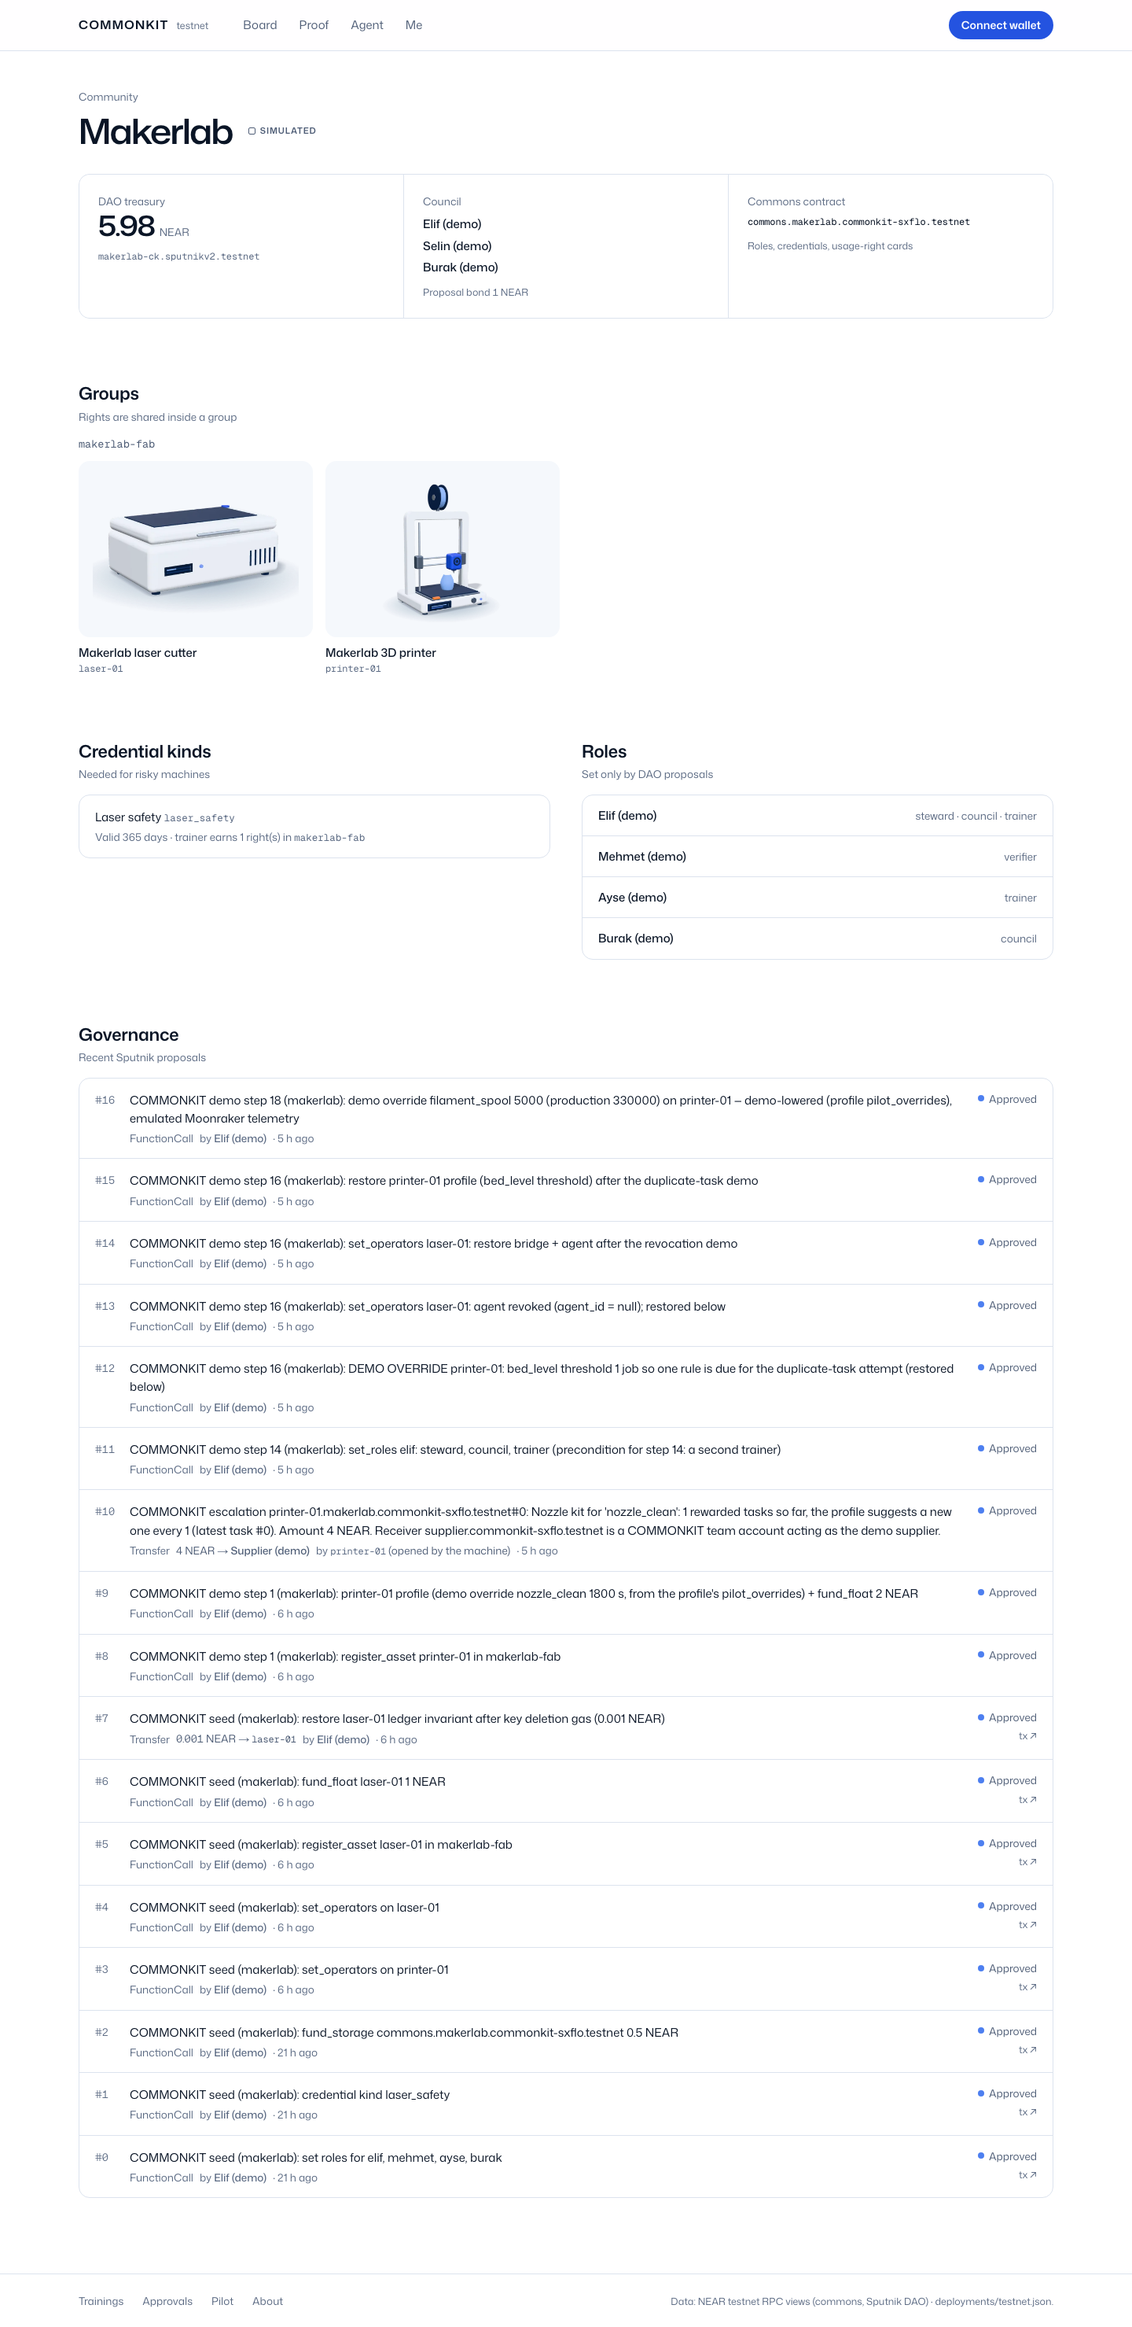
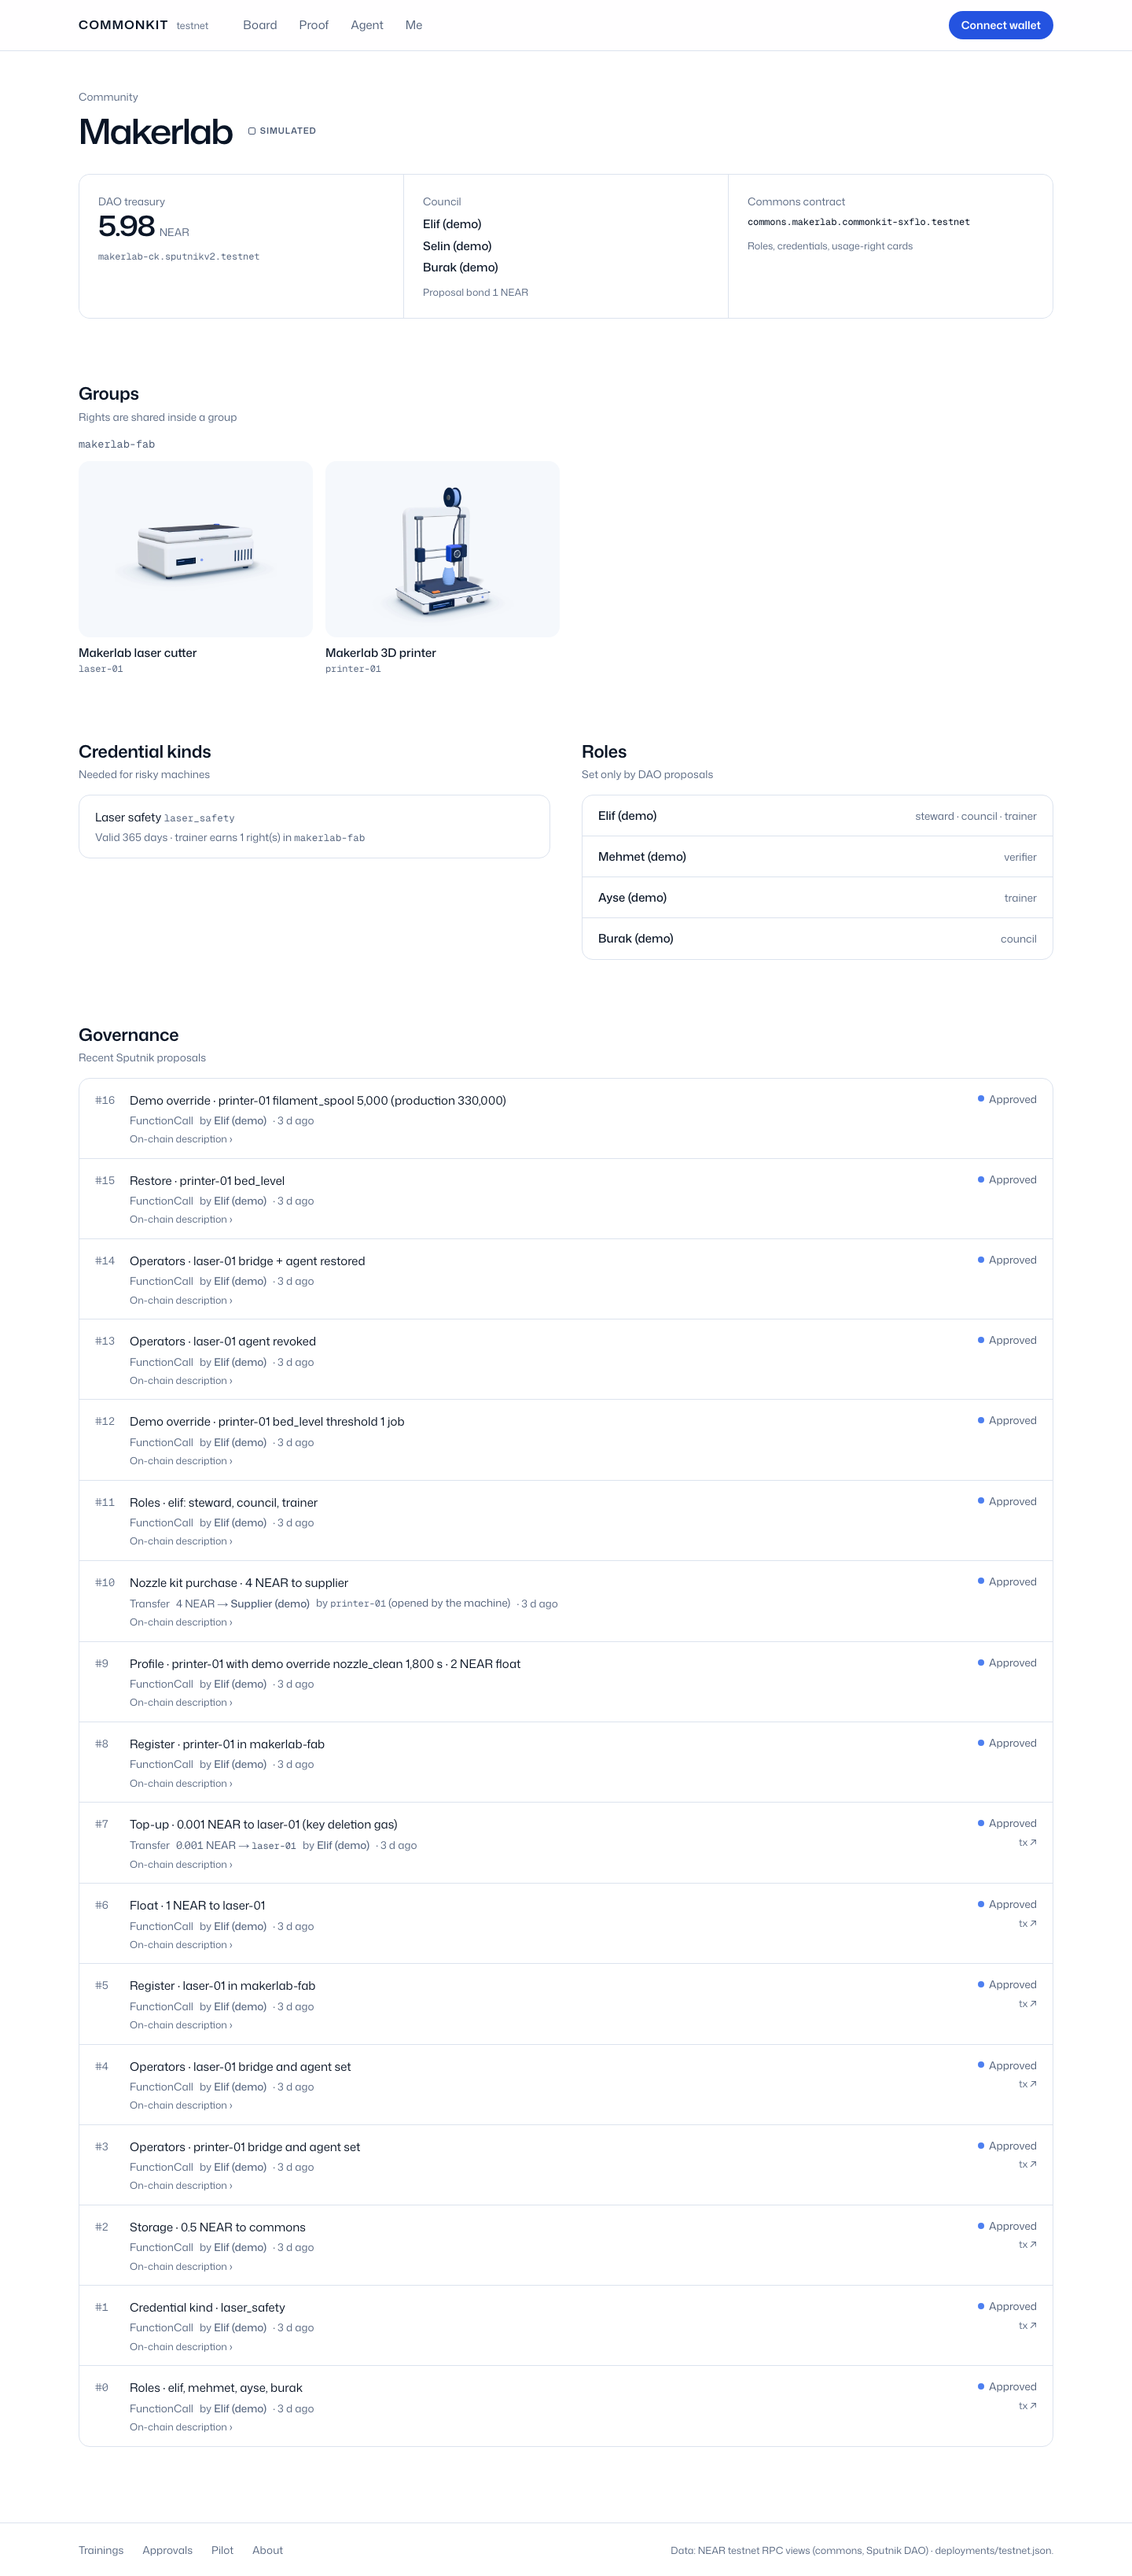
fix(web): posters fit their tile; screenshots of every route at 390 and 1440 px

diff --git a/web/src/components/MachineVisual.tsx b/web/src/components/MachineVisual.tsx
@@ -10,7 +10,7 @@ export function MachineVisual({ type, className = '', priority = false }: { type
   return (
     <div className={`relative grid aspect-[4/3] place-items-center overflow-hidden bg-bg-alt ${className}`}>
       {src ? (
-        <img src={src} alt="" width={640} height={640} loading={priority ? 'eager' : 'lazy'} decoding="async" className="h-full w-full object-contain" />
+        <img src={src} alt="" width={640} height={640} loading={priority ? 'eager' : 'lazy'} decoding="async" className="absolute inset-0 h-full w-full object-contain p-[3%]" />
       ) : (
         <AssetIcon type={type} size={56} className="text-slate-400" />
       )}

diff --git a/web/DESIGN.md b/web/DESIGN.md
@@ -6,8 +6,9 @@ Tailwind v4 theme. The app imports it in `src/styles/index.css` and adds only ap
 `.display`, `.key-num`, `.mono-id`, `.field`, `.code`). There is no second token set. Light only.
 
 **Visual first, little text.** The machine is the hero: every asset card and asset page leads with the
-poster still of its 3D model (`src/assets/machines/*.webp`, cropped 4:3 from `landing/explore/v2/posters`;
-other asset types fall back to their line icon on the same ice tile). Big numbers carry the story; captions
+poster still of its 3D model (`machinePosters` from `@commonkit/design`, the same stills the landing uses;
+other asset types fall back to their line icon on the same ice tile). The app is the application, not a
+pitch: no taglines or explainer paragraphs, at most one short line per page; explanations live on the landing. Big numbers carry the story; captions
 stay one line.
 
 ## Character of an asset
